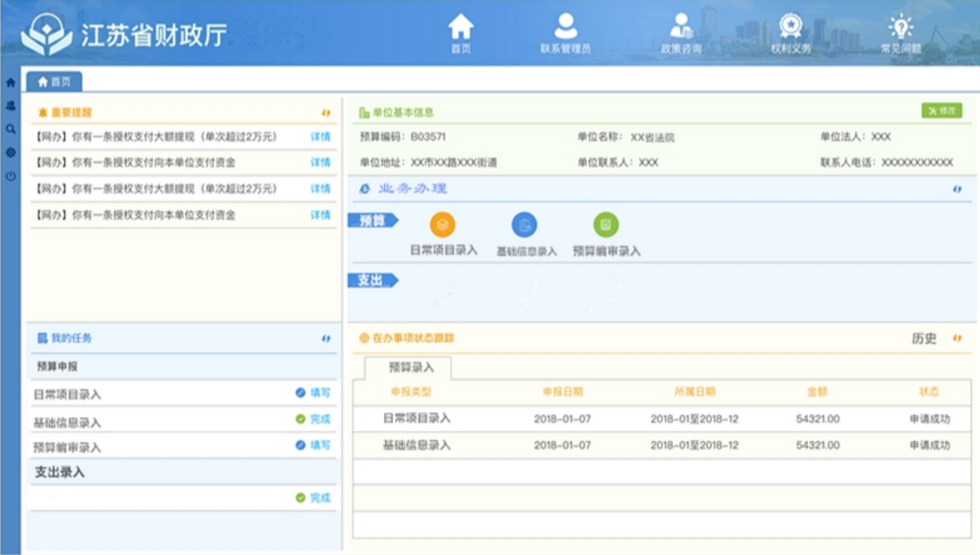
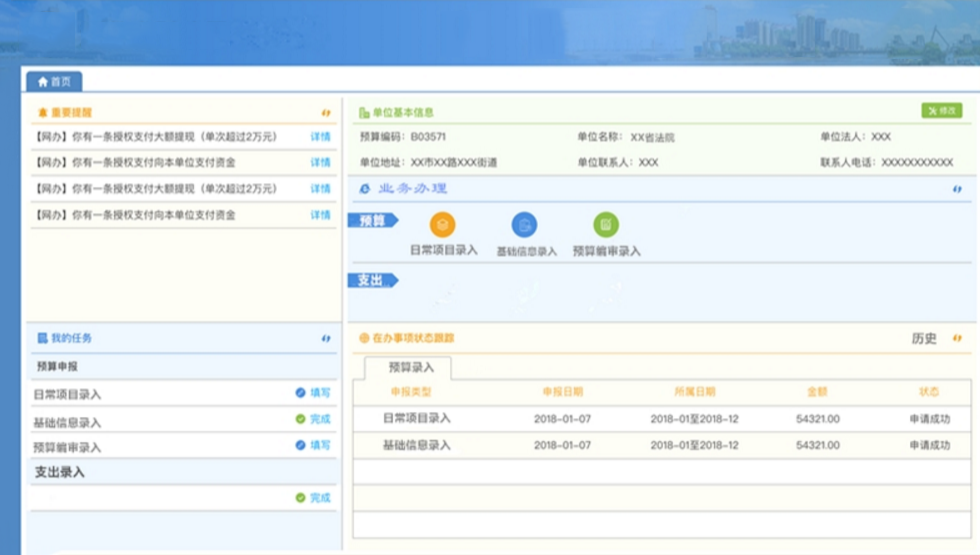
修改背景图片

diff --git a/MaterialSkinExample/HomePage.Designer.cs b/MaterialSkinExample/HomePage.Designer.cs
@@ -49,7 +49,6 @@
             // metroToolTip1
             // 
             this.metroToolTip1.Style = MetroFramework.MetroColorStyle.Default;
-            this.metroToolTip1.StyleManager = null;
             this.metroToolTip1.Theme = MetroFramework.MetroThemeStyle.Light;
             // 
             // m_panelForm
